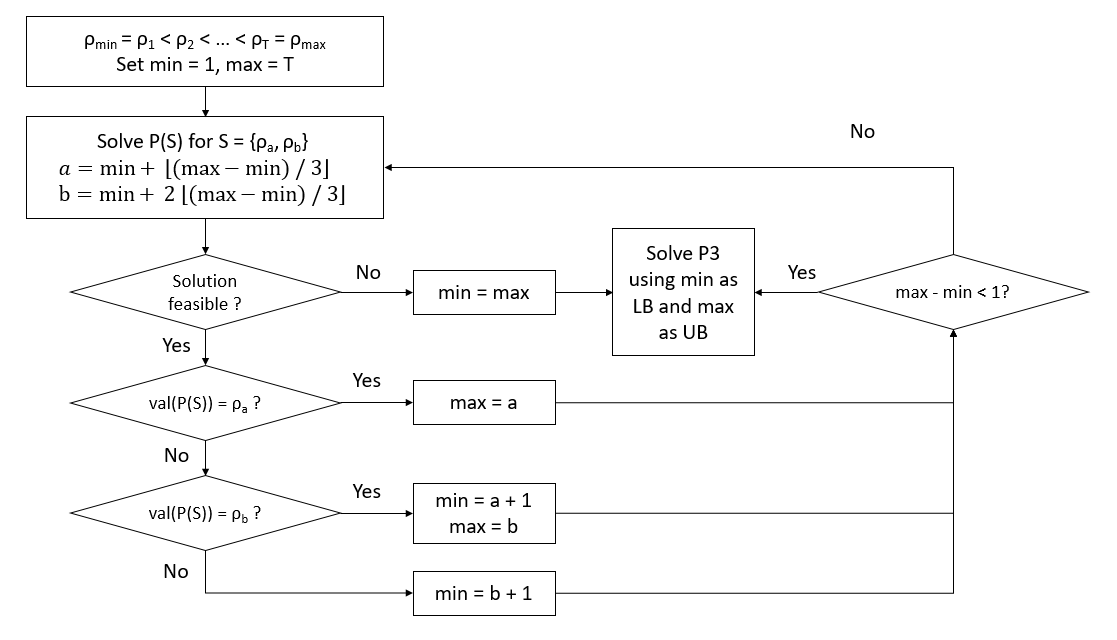
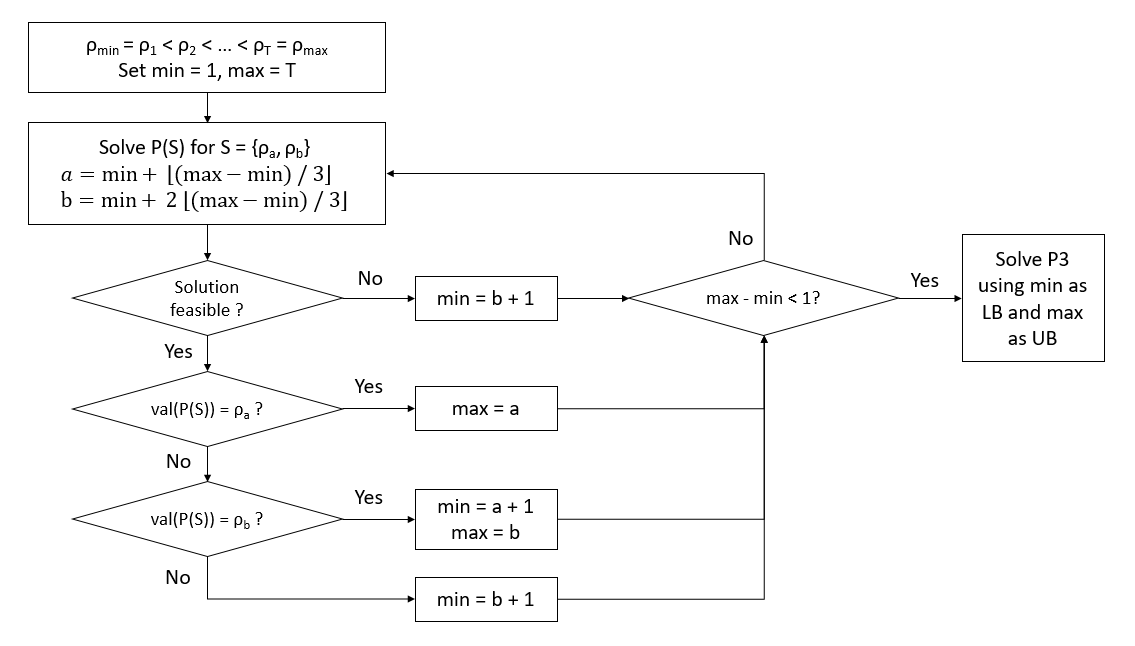
Stuff

diff --git a/report/tex/chapters/implementation.tex b/report/tex/chapters/implementation.tex
@@ -1,5 +1,5 @@
 \newpage
-\chapter{Implementation}
+\chapter{Implementation and command line usage}
 
 The project was implemented exclusively in Julia v0.6.2, a high-level dynamic programming language as requested in the assignment guidelines. In addition to the requested default use of the open-source Coin-OR Branch-and-Cut solver (Cbc), our implementation also offers the possibility to compare the results and performance of Cbc with the GNU Linear Programming Kit (GLPK), another solver interfaced by JuMP.
 
@@ -13,8 +13,19 @@ The source folder of the project is structured as follows:
 	\item a folder \verb+hard+ containing the hard instances provided with the assignment
 	\end{itemize}
 \item the \verb+report+ folder contains the report in pdf and LaTeX formats
-\item the \verb+results+ folder contains the results (objective and elapsed time) of the program execution on the selected instances
+\item the \verb+results+ folder contains the results (objective and elapsed time) of the program execution on the selected instances.
+Each \verb+txt+ file contains solver name, algorithm/formulation name,
+solution found by the solver (values of the \textit{y} variables),
+value of the objective function and elapsed time.
 \item the \verb+src+ folder contains the source files in Julia
+	\begin{itemize}
+	\item \verb+p1.jl+ implementation of P1 formulation
+	\item \verb+p3.jl+ implementation of P3 and P(S) formulations,
+	BINARY and double bound (DB3) algorithm
+	\item \verb+solve.jl+ run p-center solver with command-line arguments
+	\item \verb+test_all.jl+ run p-center solver for all solvers and algorithms on all instances. This has been principally used
+	to produce the results shown in present report
+	\end{itemize}
 \end{itemize}
 
 \section{Execution}
@@ -31,11 +42,10 @@ In order to properly run the project, several modules have first to be installed
 \subsection{Arguments}
 The project can be executed using two different scripts:
 \begin{itemize}
-	\item \verb+julia test_all.jl+ is used without argument, runs the two Cbc and GLPK solvers on all instances and writes the minimized objective function value and performance result of each instance in respective files in the \verb+results+ folder.
 	\item \verb+julia solve.jl+ is used with the following arguments:
 		\begin{itemize}
 		\item path to the instance file (required)
-		\item formulation of the p-center problem (either \verb+p1+ or \verb+p3+) (required)
+		\item formulation of the p-center problem (either \verb+p1+, \verb+p3+, \verb+p3-binary+ or \verb+p3-db3+) (required)
 		\item solver (either \verb+cbc+ or \verb+glpk+) (optional, using \verb+--solver+)
 		\end{itemize}
 	For example: the following command
@@ -43,4 +53,11 @@ The project can be executed using two different scripts:
 		\verb+julia solve.jl ./instances/easy/instance10_1_1.dat p1 --solver glpk+
 	\end{center}	 
 	runs the \verb+solve.jl+ script to solve a unique instance \verb+instance10_1_1.dat+ using the GLPK solver with the P1 formulation. 
+	\item \verb+julia test_all.jl+ is used without argument, runs the two Cbc and GLPK solvers on all instances and writes the minimized objective function value and performance result of each instance in respective files in the \verb+results+ folder.
+	\item Because running both solvers on all instances for each algorithm can be very time-consuming, as well as calling
+	the solver with command-line arguments many times in a row (because of the very long
+	Julia warm up time), you may prefer to automate runs youself.
+	If that is the case, just import \verb+solve.jl+ and call
+	\verb+solve_p_center(parameters::Dict{String, Any})+ with proper
+	parameters. Everything is documented in docstrings.
 \end{itemize}

diff --git a/report/tex/chapters/improvements.tex b/report/tex/chapters/improvements.tex
@@ -20,9 +20,12 @@ Let:
 \end{itemize}\ \\
 Calik and Tansel (2013) proposes and proves that val($RP3$)$ = \min_{h \in T}$ val($RP_h$). They show that computing $\min_{h \in T}$ val($RP_h$) is achieved in polynomial time by solving $\mathcal{O}\left( \log_2 K \right)$ linear programs $RP_h$ for each $\rho_h$ selected from the set of ordered $\rho$ values $R = \lbrace \rho_1, \rho_2, ..., \rho_K \rbrace$ (as defined in P3) during a binary seach.\\\\
 The BINARY algorithm proposed by Calik and Tansel (2013) can be schematized as follows:
-\begin{center}
-	\includegraphics[width=\textwidth]{../imgs/BINARY.png}
-\end{center}
+\begin{figure}[H]
+	\begin{center}
+		\includegraphics[width=\textwidth]{../imgs/BINARY.png}
+		\caption{Flow chart of BINARY algorithm}
+	\end{center}
+\end{figure}
 
 \section{Double bound algorithm}
 
@@ -39,6 +42,9 @@ Calik and Tansel (2013) proposes and proves the following:\\\\
 (c) & If val($P(S)$) = $\infty$, then $r_p(F) \in \lbrace \rho_{b+1}, ..., \rho_K \rbrace$''\\
 \end{tabularx}\ \\\\
 This proposition allows the construction of a more efficient search strategy based on the restriction of P3. The Double bound algorithm proposed by Calik and Tansel (2013) is based on this proposition and can be schematized as follows:
-\begin{center}
-	\includegraphics[width=\textwidth]{../imgs/DB3.png}
-\end{center}
+\begin{figure}[H]
+	\begin{center}
+		\includegraphics[width=\textwidth]{../imgs/DB3.png}
+		\caption{Flow chart of DB3 algorithm}
+	\end{center}
+\end{figure}

diff --git a/report/tex/chapters/results.tex b/report/tex/chapters/results.tex
@@ -3,6 +3,26 @@
 
 These results were computed using the \verb+julia test_all.jl+ script which runs the two Cbc and GLPK solvers on all instances (30 easy instances and 10 hard instances) and writes the minimized objective function value and performance result of each instance in respective files in the \verb+results+ folder. For a better readability, we chose to make a separate result table per solver.
 
+
+\begin{figure}[H]
+    \begin{center}
+        \includegraphics[width=0.72\textwidth]{../imgs/binary_bounds.png}
+        \caption{Search space of BINARY algorithm for finding the
+        lower bound \\ on easy/instance10\_1\_1.dat}
+    \end{center}
+\end{figure}
+
+\begin{figure}[H]
+    \begin{center}
+        \includegraphics[width=0.72\textwidth]{../imgs/db3_bounds.png}
+        \caption{Evolution of lower and upper bounds using DB3 \\
+        algorithm on instance hard/instance9.dat}
+    \end{center}
+\end{figure}
+
+\chapter{Discussion}
+
+
 \section{Cbc}
 
 \begin{table*}[h!]\centering

diff --git a/report/tex/report.tex b/report/tex/report.tex
@@ -45,6 +45,8 @@
 \usepackage{adjustbox}
 \usepackage{verbatim}
 \usepackage{amsmath}
+\usepackage{float}
+\usepackage{caption}
 
 % --- custom ---
 \newcommand{\lang}[1]{\emph{#1}}
